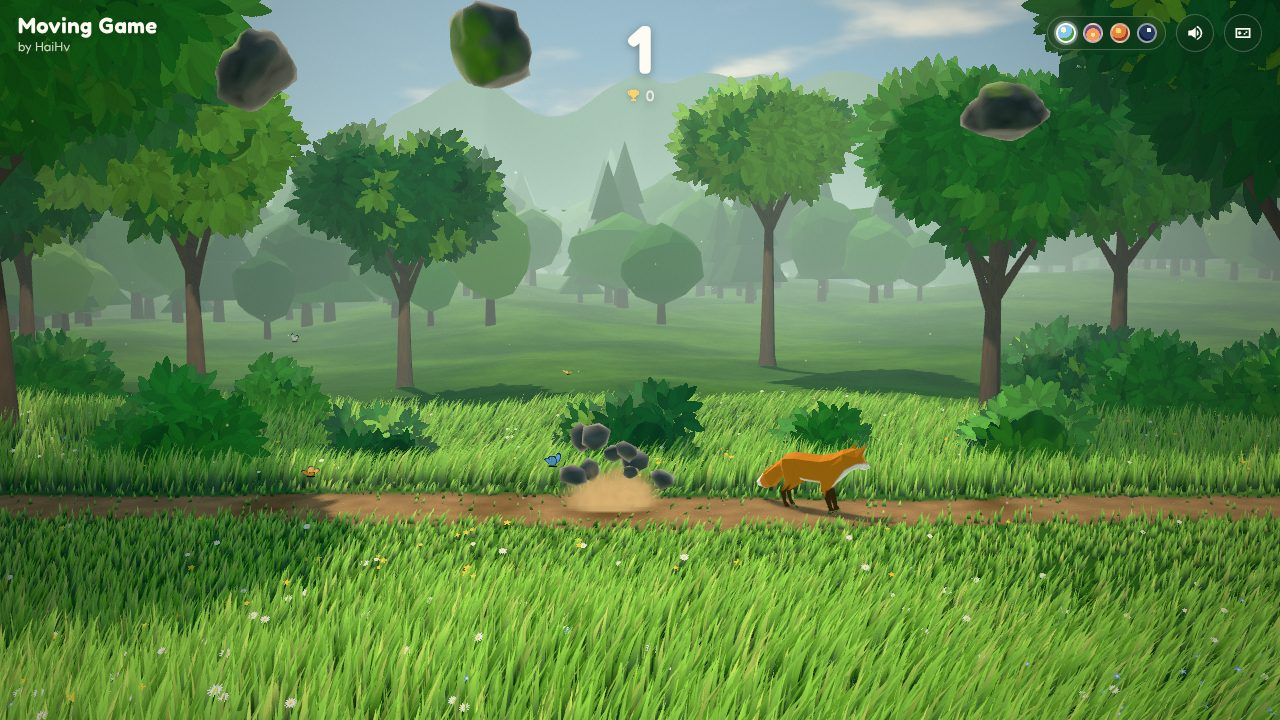
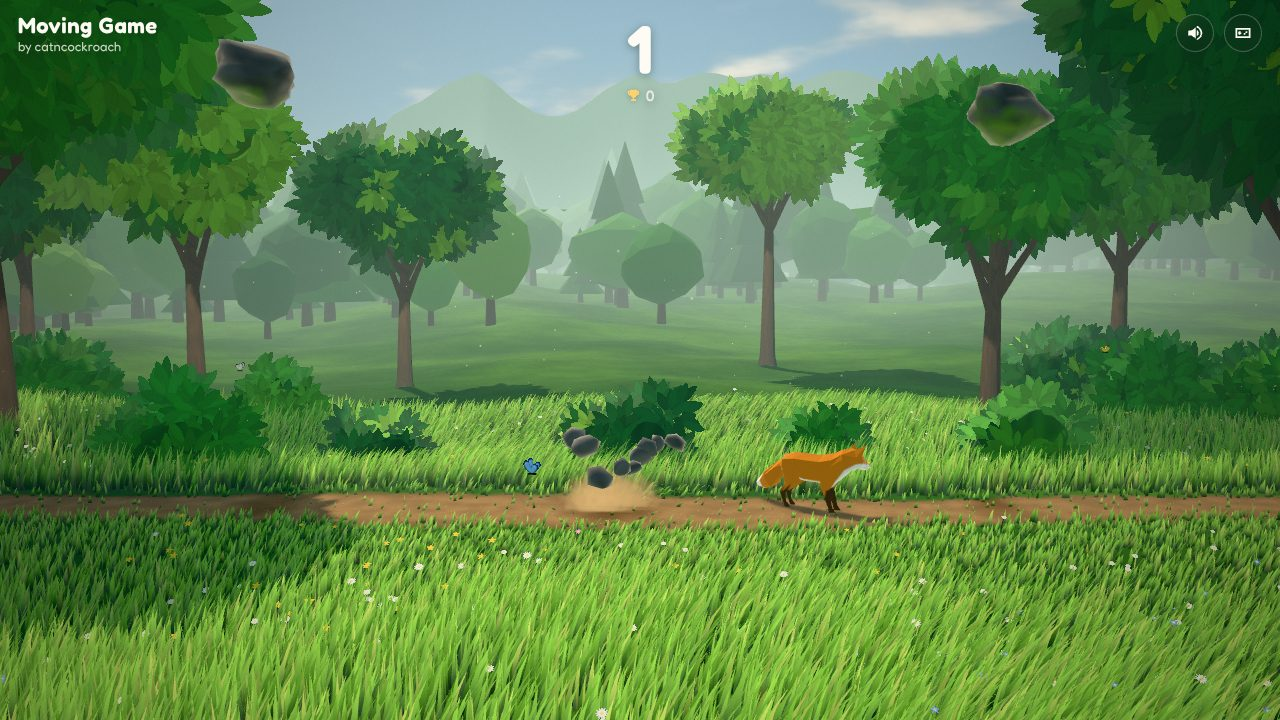
Show the GitHub username (catncockroach) as the author in the game
Also refresh the README preview screenshot to match.

Claude-Session: https://claude.ai/code/session_016MdTuxBwKwSXAc9aCjiETk

diff --git a/index.html b/index.html
@@ -39,7 +39,7 @@
   <header id="hud">
     <div class="brand">
       <span class="brand-title">Moving Game</span>
-      <span class="brand-author">by HaiHv</span>
+      <span class="brand-author">by catncockroach</span>
     </div>
 
     <div class="scorebox" aria-live="polite">
